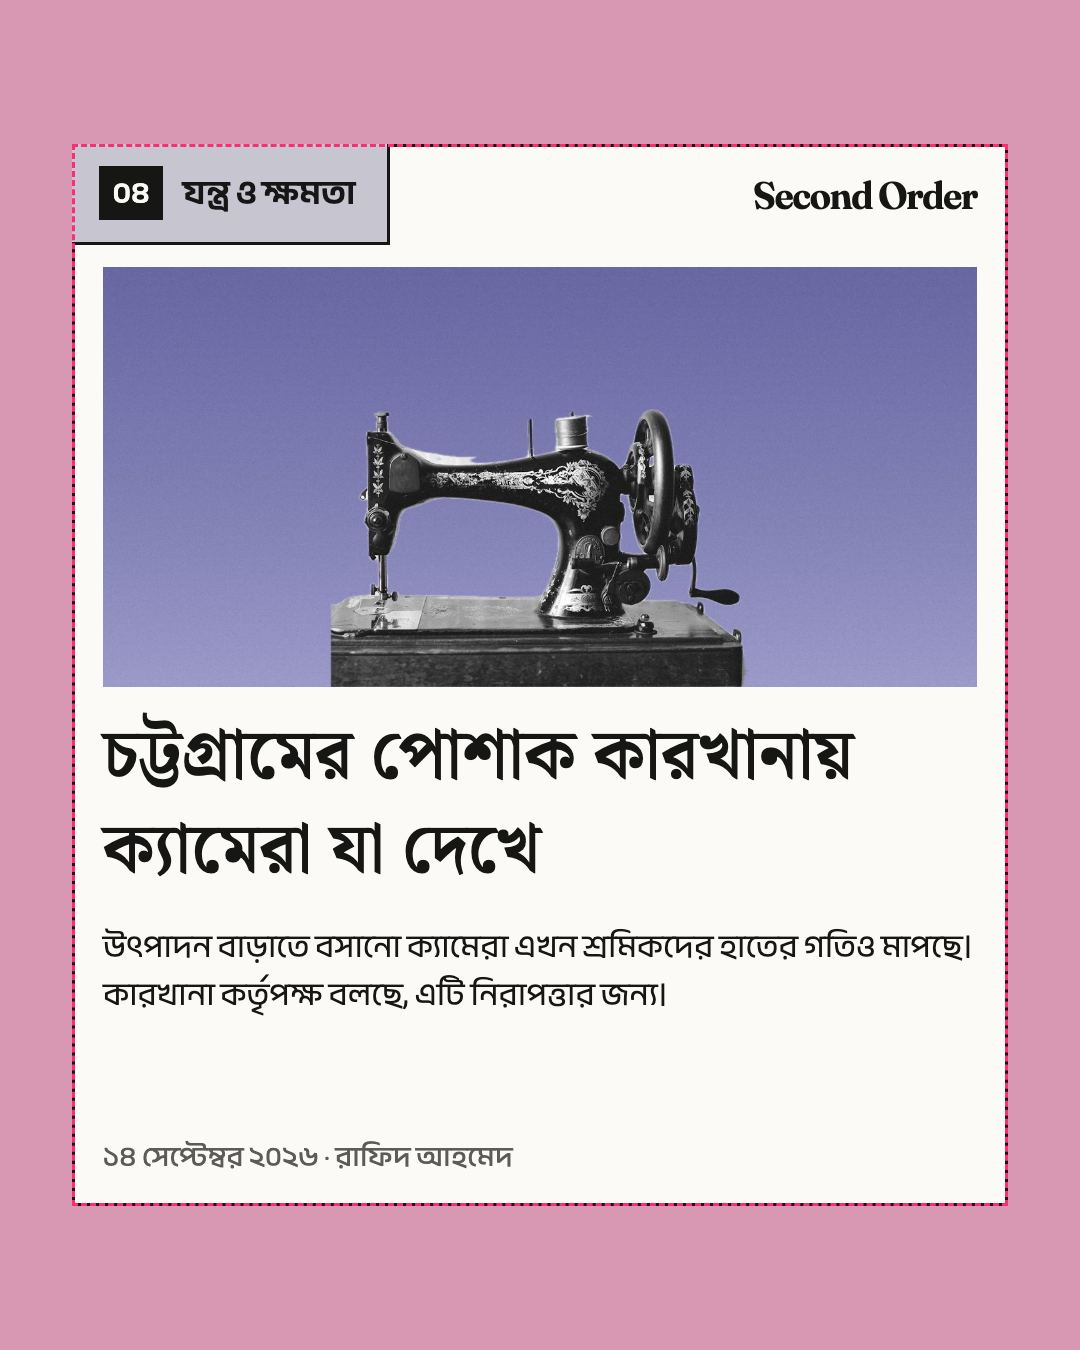
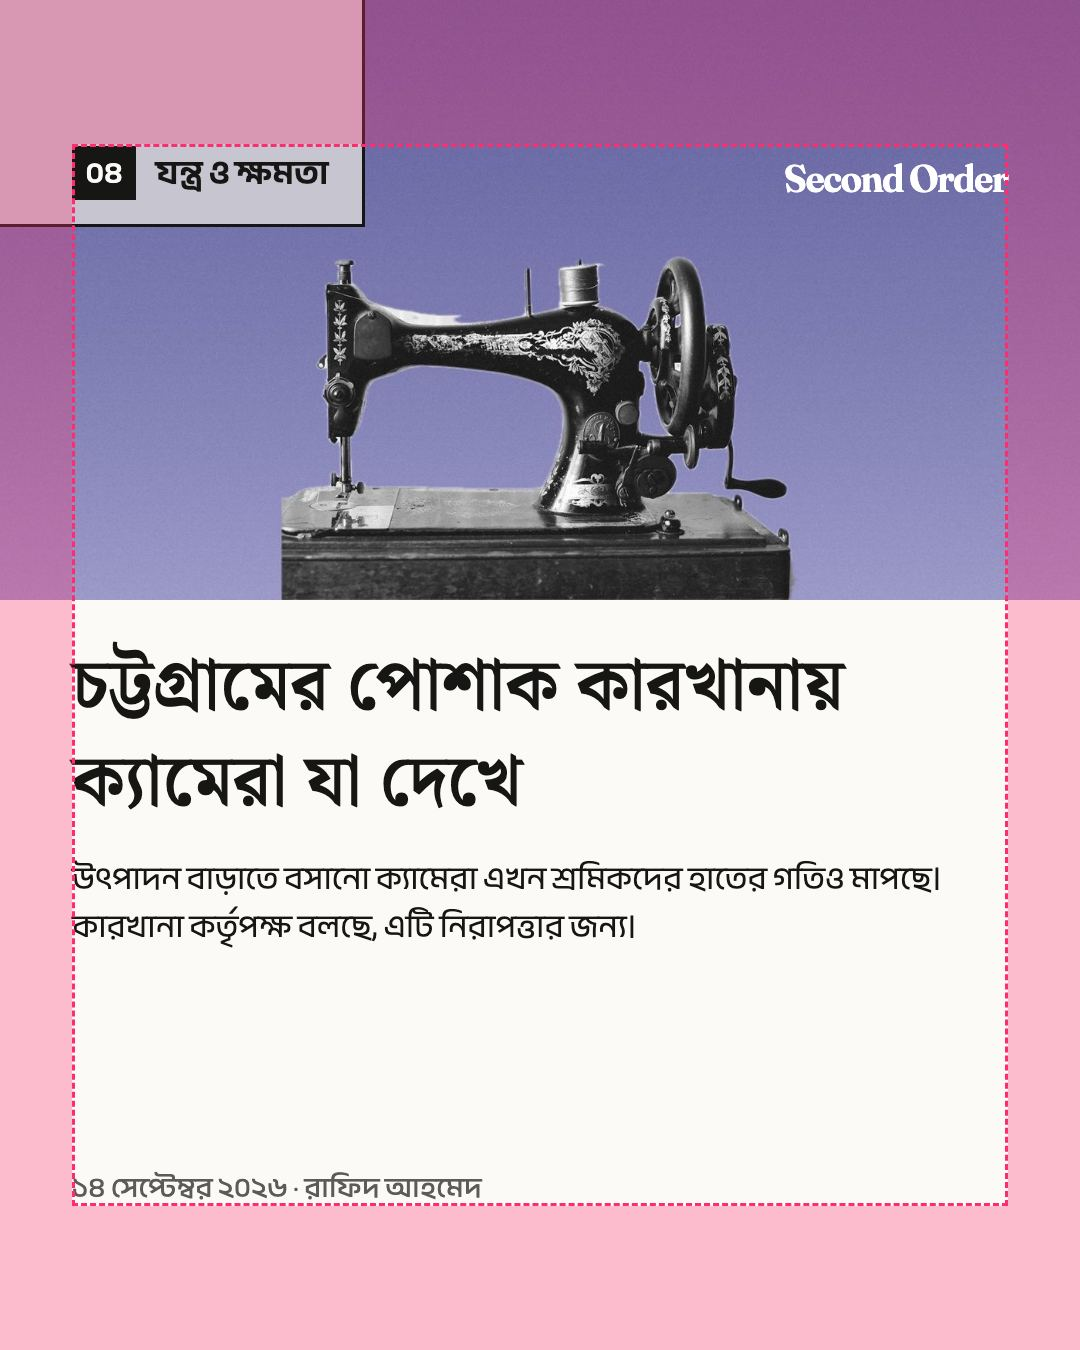
Social post trials: notch set runs to the edges, the notch cut into each post's own corner instead of a framed tray

diff --git a/static/social/index.html b/static/social/index.html
@@ -317,7 +317,7 @@
     <div class="head">
       <p class="label">Third set · the notch</p>
       <h2>One cut corner, on the site and on every post</h2>
-      <p>On our website each topic sits in a tray of paper with its number and name in a notch cut into the top-left corner. Here every post becomes that tray. The notch carries the same number and topic as the website, sits at the top-left corner of the safe area every time, and only ever changes colour: the page's grey, a pale wash of the picture's colour, or purple for the newest story. Most of these carry a headline and a short summary.</p>
+      <p>On our website each topic sits in a tray of paper with its number and name in a notch cut into the top-left corner. Here the post itself is the tray: the picture or the paper runs to every edge, and the notch is cut into the post's own top-left corner, reaching down just far enough for its words to sit inside the safe area. It carries the same number and topic as the website, sits in the same corner every time, and only ever changes colour: the page's grey, a pale wash of the picture's colour, or purple for the newest story. Most of these carry a headline and a short summary.</p>
     </div>
     <div class="row">
       <figure>
@@ -328,34 +328,34 @@
     <h3 class="sub">Instagram photo post</h3>
     <div class="row">
       <figure>
-        <a href="img/c/C1.jpg"><img class="plain post" src="img/c/C1.jpg" alt="A paper tray on a pale purple ground, notch 04 Machines and Power, headline and summary on a purple illustration of a ballot box" loading="lazy" width="1080" height="1350"><img class="safe post" src="img/c/C1-safe.jpg" alt="" loading="lazy" width="1080" height="1350"></a>
-        <figcaption><h3>1. Words on the picture's colour</h3><p>The same as a lead card on our front page: the picture's own colour behind the headline and summary, the object low in the frame. The ground and the notch take a pale wash of that colour.</p></figcaption>
+        <a href="img/c/C1.jpg"><img class="plain post" src="img/c/C1.jpg" alt="A purple illustration of a ballot box to the edges, notch 04 Machines and Power cut into the corner, headline and summary on the picture's colour" loading="lazy" width="1080" height="1350"><img class="safe post" src="img/c/C1-safe.jpg" alt="" loading="lazy" width="1080" height="1350"></a>
+        <figcaption><h3>1. Words on the picture's colour</h3><p>The same as a lead card on our front page: the picture's own colour behind the headline and summary, the object low in the frame. The notch takes a pale wash of that colour.</p></figcaption>
       </figure>
       <figure>
-        <a href="img/c/C2.jpg"><img class="plain post" src="img/c/C2.jpg" alt="A paper tray, notch 04 in Bangla, an illustration of a sewing machine above a Bangla headline and summary" loading="lazy" width="1080" height="1350"><img class="safe post" src="img/c/C2-safe.jpg" alt="" loading="lazy" width="1080" height="1350"></a>
-        <figcaption><h3>2. Picture, then words, Bangla</h3><p>The picture on top, the headline and summary below on paper, with the date and writer at the foot. The notch label is in Bangla with Bangla digits.</p></figcaption>
+        <a href="img/c/C2.jpg"><img class="plain post" src="img/c/C2.jpg" alt="An illustration of a sewing machine across the top with the notch cut into its corner, Bangla headline and summary on paper below" loading="lazy" width="1080" height="1350"><img class="safe post" src="img/c/C2-safe.jpg" alt="" loading="lazy" width="1080" height="1350"></a>
+        <figcaption><h3>2. Picture, then words, Bangla</h3><p>The picture across the top with the notch cut into it, the headline and summary below on paper, the date and writer at the foot. The notch label is in Bangla with Bangla digits.</p></figcaption>
       </figure>
       <figure>
-        <a href="img/c/C3.jpg"><img class="plain post" src="img/c/C3.jpg" alt="A paper tray holding a news photo of people at screens, with the headline and summary over a dark gradient at the bottom" loading="lazy" width="1080" height="1350"><img class="safe post" src="img/c/C3-safe.jpg" alt="" loading="lazy" width="1080" height="1350"></a>
-        <figcaption><h3>3. News photo in the tray</h3><p>A real photo fills the tray under the notch, darkened gently at the bottom for the headline and summary. The notch and the name stay on paper, so they always read.</p></figcaption>
+        <a href="img/c/C3.jpg"><img class="plain post" src="img/c/C3.jpg" alt="A news photo of people at screens to the edges, the notch in the corner, headline and summary over a dark gradient at the bottom" loading="lazy" width="1080" height="1350"><img class="safe post" src="img/c/C3-safe.jpg" alt="" loading="lazy" width="1080" height="1350"></a>
+        <figcaption><h3>3. News photo to the edges</h3><p>A real photo fills the whole post, darkened gently at the bottom for the headline, summary and name. The notch carries its own grey, so it reads on any photo.</p></figcaption>
       </figure>
     </div>
     <h3 class="sub">Instagram story</h3>
     <div class="row story">
       <figure>
-        <a href="img/c/C4.jpg"><img class="plain tall" src="img/c/C4.jpg" alt="A story: a paper tray starting at the top of the safe area and running off the bottom, Bangla headline and summary above a photo of Dhaka traffic" loading="lazy" width="1080" height="1920"><img class="safe tall" src="img/c/C4-safe.jpg" alt="" loading="lazy" width="1080" height="1920"></a>
-        <figcaption><h3>4. Tray runs off the bottom, Bangla</h3><p>The tray starts at the top of the safe area and runs off the bottom of the screen. The words stay in the safe area and the photo fills the zone below, where Instagram's bar sits.</p></figcaption>
+        <a href="img/c/C4.jpg"><img class="plain tall" src="img/c/C4.jpg" alt="A story: Bangla headline and summary on paper at the top, a photo of Dhaka traffic filling the bottom to the edges" loading="lazy" width="1080" height="1920"><img class="safe tall" src="img/c/C4-safe.jpg" alt="" loading="lazy" width="1080" height="1920"></a>
+        <figcaption><h3>4. Paper above, photo below, Bangla</h3><p>The words sit on paper in the safe area and the photo fills the bottom of the screen, where Instagram's reply bar sits, edge to edge.</p></figcaption>
       </figure>
       <figure>
-        <a href="img/c/C5.jpg"><img class="plain tall" src="img/c/C5.jpg" alt="A story: an illustration of a light bulb fills the screen, a paper tray with the headline and summary sits at the top, and the notch shows the picture's colour" loading="lazy" width="1080" height="1920"><img class="safe tall" src="img/c/C5-safe.jpg" alt="" loading="lazy" width="1080" height="1920"></a>
-        <figcaption><h3>5. Picture through the notch</h3><p>The illustration fills the whole story and the tray sits on it, so the notch shows the picture's own colour through the cut, exactly as the website's grey shows through.</p></figcaption>
+        <a href="img/c/C5.jpg"><img class="plain tall" src="img/c/C5.jpg" alt="A story: an illustration of a light bulb fills the screen, the headline and summary on its calm top, the notch in the corner" loading="lazy" width="1080" height="1920"><img class="safe tall" src="img/c/C5-safe.jpg" alt="" loading="lazy" width="1080" height="1920"></a>
+        <figcaption><h3>5. Picture to the edges</h3><p>The illustration fills the whole story and the words sit on its calm top. The notch takes a pale wash of the picture's colour.</p></figcaption>
       </figure>
     </div>
     <h3 class="sub">Instagram carousel</h3>
     <div class="row">
       <figure>
         <a href="img/c/C6.jpg"><img class="plain post" src="img/c/C6.jpg" alt="Carousel slide one: notch 06 in Bangla, the headline on an illustration of a water tap, one of three" loading="lazy" width="1080" height="1350"><img class="safe post" src="img/c/C6-safe.jpg" alt="" loading="lazy" width="1080" height="1350"></a>
-        <figcaption><h3>6. Cover</h3><p>The notch stays on every slide. The slide count sits at the foot of the tray, where the website puts the way to more.</p></figcaption>
+        <figcaption><h3>6. Cover</h3><p>The notch stays on every slide. The slide count sits at the foot, where the website puts the way to more.</p></figcaption>
       </figure>
       <figure>
         <a href="img/c/C7.jpg"><img class="plain post" src="img/c/C7.jpg" alt="Carousel slide two: a Bangla headline, a large purple five over seven, and a line of small text" loading="lazy" width="1080" height="1350"><img class="safe post" src="img/c/C7-safe.jpg" alt="" loading="lazy" width="1080" height="1350"></a>
@@ -369,27 +369,27 @@
     <h3 class="sub">Facebook photo post</h3>
     <div class="row">
       <figure>
-        <a href="img/c/C9.jpg"><img class="plain post" src="img/c/C9.jpg" alt="A paper tray, notch 03 Work After Automation, headline and a full summary on paper above an office photo" loading="lazy" width="1080" height="1350"><img class="safe post" src="img/c/C9-safe.jpg" alt="" loading="lazy" width="1080" height="1350"></a>
-        <figcaption><h3>9. Headline and full summary</h3><p>Facebook readers often read the image without opening the post, so the whole summary goes on it, with the photo filling the rest of the tray.</p></figcaption>
+        <a href="img/c/C9.jpg"><img class="plain post" src="img/c/C9.jpg" alt="Notch 03 Work After Automation, headline and a full summary on paper, an office photo filling the bottom to the edges" loading="lazy" width="1080" height="1350"><img class="safe post" src="img/c/C9-safe.jpg" alt="" loading="lazy" width="1080" height="1350"></a>
+        <figcaption><h3>9. Headline and full summary</h3><p>Facebook readers often read the image without opening the post, so the whole summary goes on it, with the photo filling the rest to the edges.</p></figcaption>
       </figure>
       <figure>
-        <a href="img/c/C10.jpg"><img class="plain post" src="img/c/C10.jpg" alt="A paper tray with a purple notch, 04 Machines and Power, over a grey photo of security cameras with the headline and summary" loading="lazy" width="1080" height="1350"><img class="safe post" src="img/c/C10-safe.jpg" alt="" loading="lazy" width="1080" height="1350"></a>
+        <a href="img/c/C10.jpg"><img class="plain post" src="img/c/C10.jpg" alt="A grey photo of security cameras to the edges with a purple notch, 04 Machines and Power, and the headline and summary at the bottom" loading="lazy" width="1080" height="1350"><img class="safe post" src="img/c/C10-safe.jpg" alt="" loading="lazy" width="1080" height="1350"></a>
         <figcaption><h3>10. The newest story: purple notch</h3><p>The one change allowed: the notch turns purple for the newest story, as the “now” notch does on the website. Everything else stays the same.</p></figcaption>
       </figure>
       <figure>
-        <a href="img/c/C11.jpg"><img class="plain post" src="img/c/C11.jpg" alt="A paper tray holding a photo of pylons, with a smaller paper card inside it carrying the headline, summary and name" loading="lazy" width="1080" height="1350"><img class="safe post" src="img/c/C11-safe.jpg" alt="" loading="lazy" width="1080" height="1350"></a>
+        <a href="img/c/C11.jpg"><img class="plain post" src="img/c/C11.jpg" alt="A photo of pylons to the edges with a paper card set into it carrying the headline, summary and name" loading="lazy" width="1080" height="1350"><img class="safe post" src="img/c/C11-safe.jpg" alt="" loading="lazy" width="1080" height="1350"></a>
         <figcaption><h3>11. A card inside the picture</h3><p>A long topic name fills the notch's row, so the name moves into a small paper card set into the photo with the headline and summary.</p></figcaption>
       </figure>
     </div>
     <h3 class="sub">Facebook story</h3>
     <div class="row story">
       <figure>
-        <a href="img/c/C12.jpg"><img class="plain tall" src="img/c/C12.jpg" alt="A story: a paper tray running off the bottom, headline and summary above a photo of people at screens" loading="lazy" width="1080" height="1920"><img class="safe tall" src="img/c/C12-safe.jpg" alt="" loading="lazy" width="1080" height="1920"></a>
-        <figcaption><h3>12. Tray runs off the bottom</h3><p>The same shape as Instagram story 4, in English, with the writer's name beside the date.</p></figcaption>
+        <a href="img/c/C12.jpg"><img class="plain tall" src="img/c/C12.jpg" alt="A story: headline and summary on paper at the top, a photo of people at screens filling the bottom to the edges" loading="lazy" width="1080" height="1920"><img class="safe tall" src="img/c/C12-safe.jpg" alt="" loading="lazy" width="1080" height="1920"></a>
+        <figcaption><h3>12. Paper above, photo below</h3><p>The same shape as Instagram story 4, in English, with the writer's name beside the date.</p></figcaption>
       </figure>
       <figure>
-        <a href="img/c/C13.jpg"><img class="plain tall" src="img/c/C13.jpg" alt="A story: a purple illustration of a ballot box fills the screen, a paper tray at the top with a Bangla headline and summary, and the notch shows the purple through" loading="lazy" width="1080" height="1920"><img class="safe tall" src="img/c/C13-safe.jpg" alt="" loading="lazy" width="1080" height="1920"></a>
-        <figcaption><h3>13. Picture through the notch, Bangla</h3><p>The same shape as Instagram story 5. On a dark picture the notch's words turn white.</p></figcaption>
+        <a href="img/c/C13.jpg"><img class="plain tall" src="img/c/C13.jpg" alt="A story: a purple illustration of a ballot box fills the screen, a Bangla headline and summary in white on its top, the notch in the corner" loading="lazy" width="1080" height="1920"><img class="safe tall" src="img/c/C13-safe.jpg" alt="" loading="lazy" width="1080" height="1920"></a>
+        <figcaption><h3>13. Picture to the edges, Bangla</h3><p>The same shape as Instagram story 5, with white words on a darker picture.</p></figcaption>
       </figure>
     </div>
     <h3 class="sub">In the grid</h3>
@@ -407,7 +407,7 @@
         </div>
       </div>
       <div class="phone">
-        <header><h3>Facebook page, Photos tab</h3><p>The square crop keeps the whole tray, notch included.</p></header>
+        <header><h3>Facebook page, Photos tab</h3><p>The square crop cuts the empty top of the notch but keeps its words and everything else.</p></header>
         <div class="tiles fb">
           <img src="img/c/C1.jpg" alt="Notch post 1, cropped to a square" loading="lazy">
           <img src="img/c/C9.jpg" alt="Notch post 9, cropped to a square" loading="lazy">
